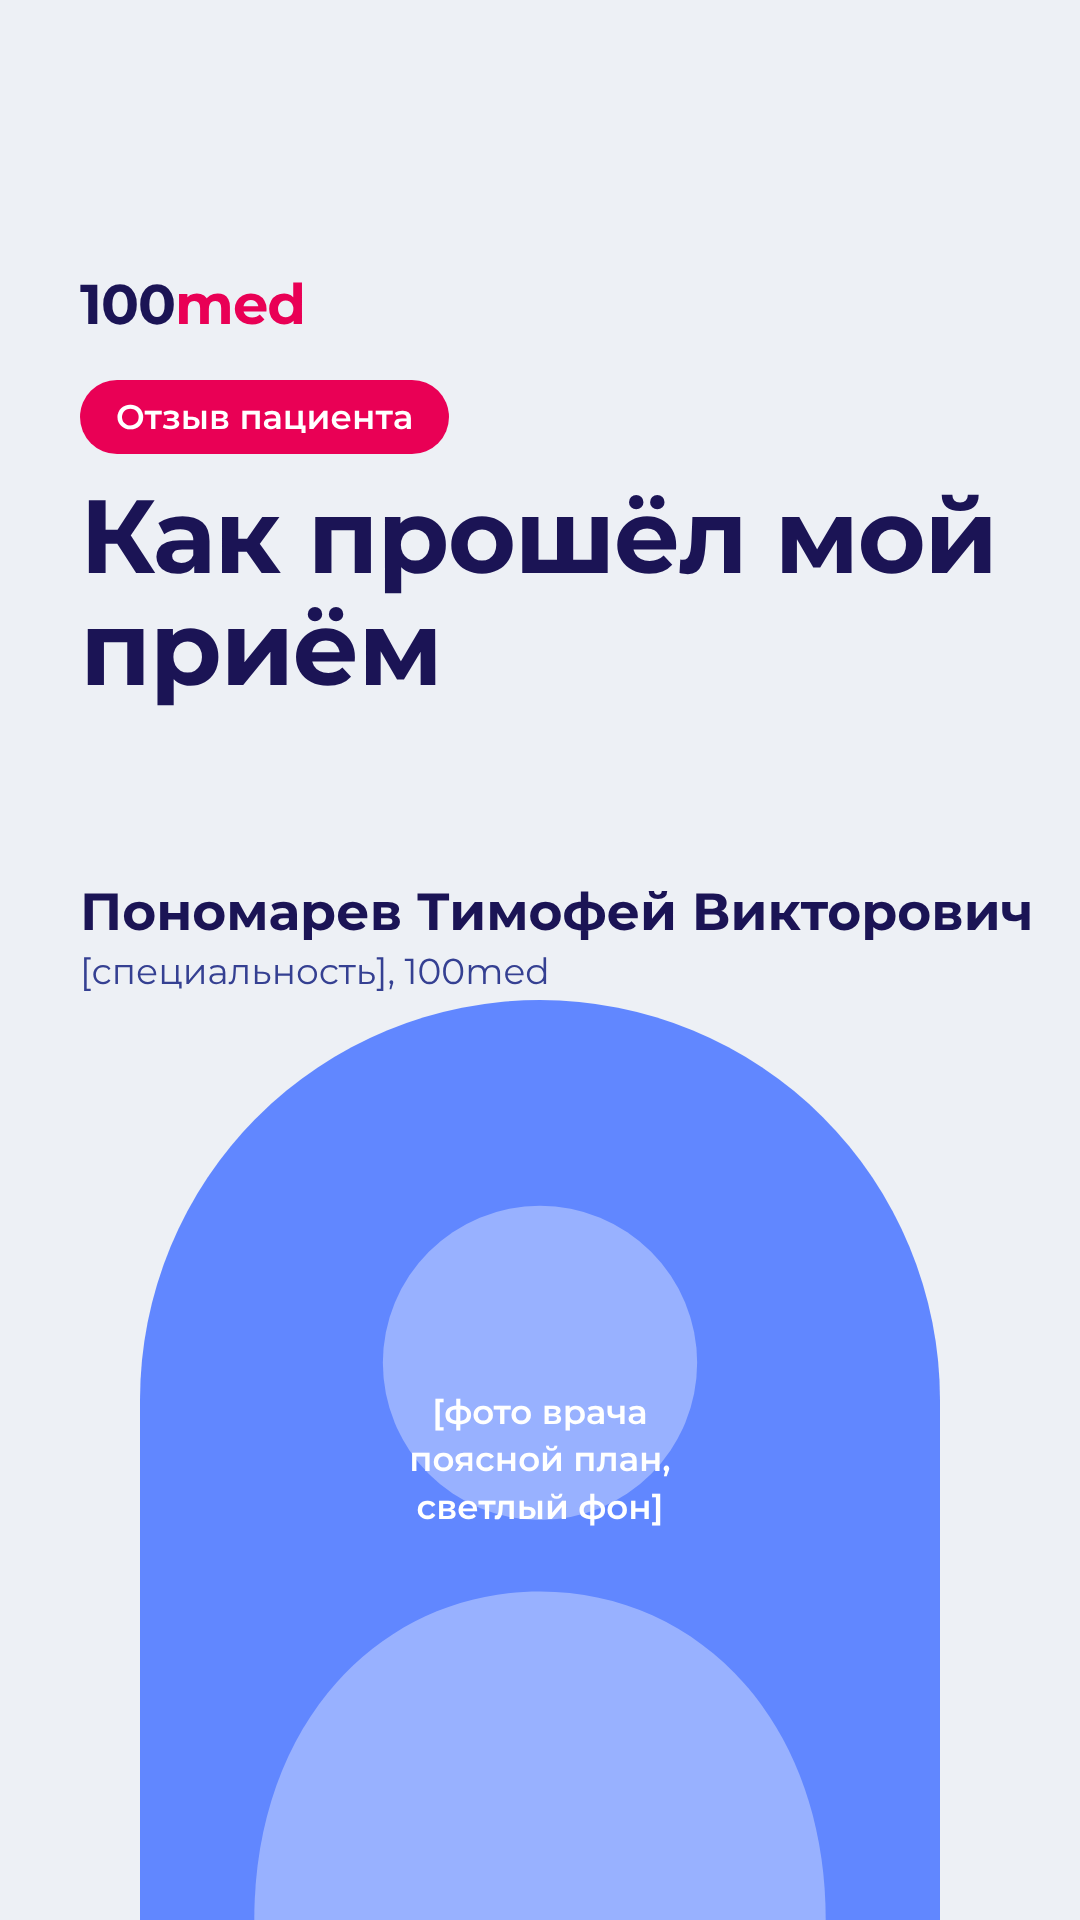
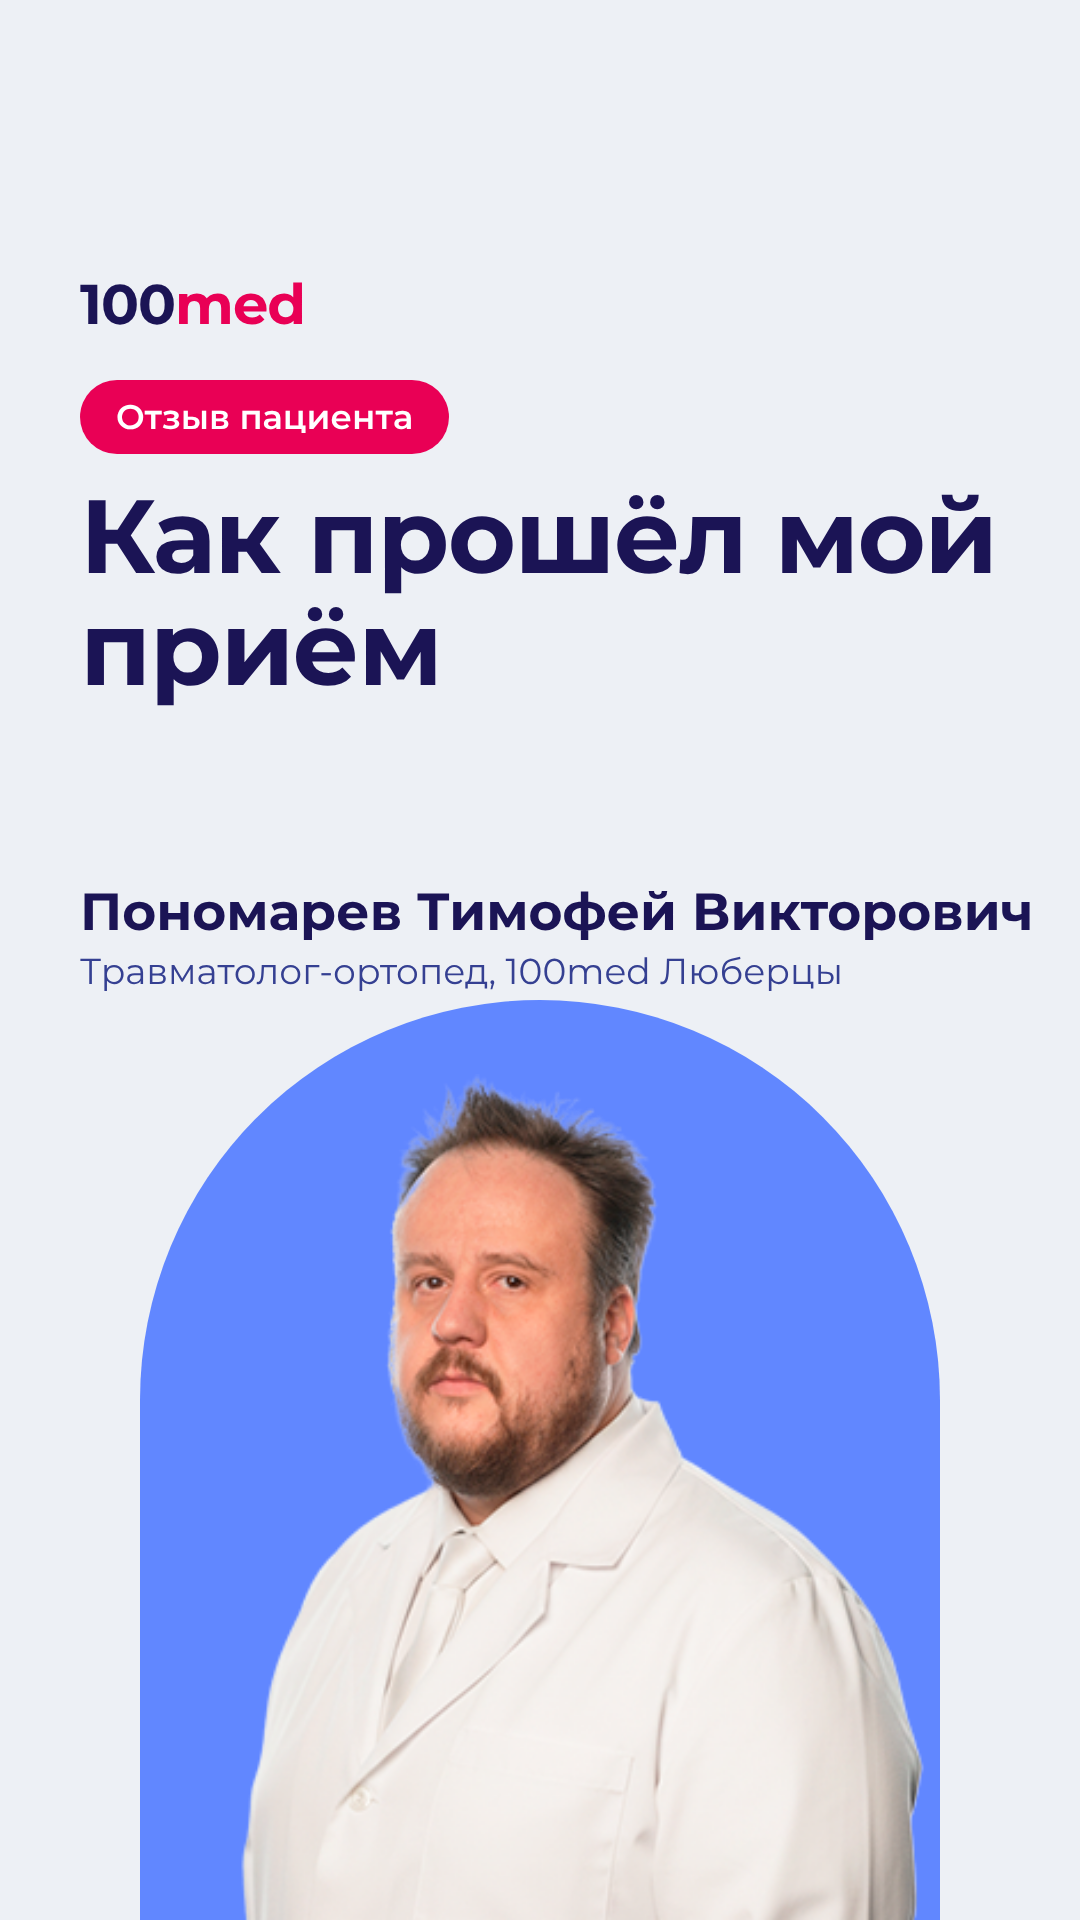
Обложки видеоотзыва: фото и специальность Пономарева Т. В. с 100med.ru
Claude-Session: https://claude.ai/code/session_01PviFTs3NBUHuRE8r3MhosN

Changed region(s): [[0.2139, 0.5625, 0.8556, 1.0], [0.0611, 0.5, 0.5806, 0.5312], [0.6417, 0.5, 0.7639, 0.5312]]

diff --git a/design/rutube/covers.html b/design/rutube/covers.html
@@ -11,7 +11,7 @@ body{font-family:'Proxima Nova','Montserrat',sans-serif;background:#fff}
 .photo{position:absolute;right:0;bottom:0;width:520px;height:640px;border-radius:260px 260px 0 0;
  display:flex;align-items:center;justify-content:center;text-align:center;font-weight:600;font-size:24px;line-height:1.4}
 .photo svg{position:absolute;bottom:0;left:50%;transform:translateX(-50%);opacity:.35}
-.photo span{position:relative;z-index:1}
+.photo img{position:absolute;bottom:0;left:50%;transform:translateX(-50%);height:92%}
 h1{font-weight:700;line-height:1.08;letter-spacing:-1.5px}
 .name{position:absolute;left:64px;bottom:64px}
 .name .fio{font-weight:700;font-size:34px;white-space:nowrap}
@@ -20,7 +20,7 @@ h1{font-weight:700;line-height:1.08;letter-spacing:-1.5px}
 /* V1 Indy */
 .v1{background:var(--indy);color:#fff}
 .v1 .logo{color:#fff}
-.v1 .photo{background:var(--g2);color:var(--blue);right:40px}
+.v1 .photo{background:var(--blue);color:var(--blue);right:40px}
 .v1 h1{position:absolute;left:64px;top:230px;width:640px;font-size:84px}
 .v1 .pill{position:absolute;left:64px;top:150px;background:#fff;color:var(--blue)}
 /* V2 light */
@@ -60,16 +60,16 @@ h1{font-weight:700;line-height:1.08;letter-spacing:-1.5px}
  <div class="logo">100<b>med</b></div>
  <div class="pill">Видеоотзыв пациента</div>
  <h1>Почему я выбрала этого врача</h1>
- <div class="name"><div class="fio">Пономарев Тимофей Викторович</div><div class="spec">[специальность], 100med</div></div>
- <div class="photo"><svg width="420" height="560" viewBox="0 0 420 560"><circle cx="210" cy="170" r="110" fill="#354092"/><path d="M10 560c0-140 90-230 200-230s200 90 200 230z" fill="#354092"/></svg><span>[фото врача<br>поясной план,<br>светлый фон]</span></div>
+ <div class="name"><div class="fio">Пономарев Тимофей Викторович</div><div class="spec">Травматолог-ортопед, 100med Люберцы</div></div>
+ <div class="photo"><img src="ponomarev.png" alt="Пономарев Тимофей Викторович"></div>
 </div>
 
 <div class="cover v2" id="v2">
  <div class="logo">100<b>med</b></div>
  <div class="pill">Отзыв пациента</div>
  <h1>Как прошёл мой приём</h1>
- <div class="name"><div class="fio">Пономарев Тимофей Викторович</div><div class="spec">[специальность], 100med</div></div>
- <div class="photo"><svg width="420" height="560" viewBox="0 0 420 560"><circle cx="210" cy="170" r="110" fill="#fff"/><path d="M10 560c0-140 90-230 200-230s200 90 200 230z" fill="#fff"/></svg><span>[фото врача<br>поясной план,<br>светлый фон]</span></div>
+ <div class="name"><div class="fio">Пономарев Тимофей Викторович</div><div class="spec">Травматолог-ортопед, 100med Люберцы</div></div>
+ <div class="photo"><img src="ponomarev.png" alt="Пономарев Тимофей Викторович"></div>
 </div>
 
 <div class="cover v3" id="v3">
@@ -78,8 +78,8 @@ h1{font-weight:700;line-height:1.08;letter-spacing:-1.5px}
  <h1>Честно о приёме у врача</h1>
  <div class="play"><svg width="30" height="34" viewBox="0 0 30 34"><path d="M2 2l26 15L2 32z" fill="#fff"/></svg></div>
  <div class="playtxt">Видеоотзыв пациента</div>
- <div class="name"><div class="fio">Пономарев Тимофей Викторович</div><div class="spec" style="color:#d8dfe8">[специальность], 100med</div></div>
- <div class="photo"><svg width="420" height="560" viewBox="0 0 420 560"><circle cx="210" cy="170" r="110" fill="#fff"/><path d="M10 560c0-140 90-230 200-230s200 90 200 230z" fill="#fff"/></svg><span>[фото врача<br>поясной план,<br>светлый фон]</span></div>
+ <div class="name"><div class="fio">Пономарев Тимофей Викторович</div><div class="spec" style="color:#d8dfe8">Травматолог-ортопед, 100med Люберцы</div></div>
+ <div class="photo"><img src="ponomarev.png" alt="Пономарев Тимофей Викторович"></div>
 </div>
 
 
@@ -87,16 +87,16 @@ h1{font-weight:700;line-height:1.08;letter-spacing:-1.5px}
  <div class="logo">100<b>med</b></div>
  <div class="pill">Видеоотзыв пациента</div>
  <h1>Почему я выбрала этого врача</h1>
- <div class="name"><div class="fio">Пономарев Тимофей Викторович</div><div class="spec">[специальность], 100med</div></div>
- <div class="photo"><svg width="420" height="560" viewBox="0 0 420 560"><circle cx="210" cy="170" r="110" fill="#354092"/><path d="M10 560c0-140 90-230 200-230s200 90 200 230z" fill="#354092"/></svg><span>[фото врача<br>поясной план,<br>светлый фон]</span></div>
+ <div class="name"><div class="fio">Пономарев Тимофей Викторович</div><div class="spec">Травматолог-ортопед, 100med Люберцы</div></div>
+ <div class="photo"><img src="ponomarev.png" alt="Пономарев Тимофей Викторович"></div>
 </div>
 
 <div class="cover vert v2" id="s2">
  <div class="logo">100<b>med</b></div>
  <div class="pill">Отзыв пациента</div>
  <h1>Как прошёл мой приём</h1>
- <div class="name"><div class="fio">Пономарев Тимофей Викторович</div><div class="spec">[специальность], 100med</div></div>
- <div class="photo"><svg width="420" height="560" viewBox="0 0 420 560"><circle cx="210" cy="170" r="110" fill="#fff"/><path d="M10 560c0-140 90-230 200-230s200 90 200 230z" fill="#fff"/></svg><span>[фото врача<br>поясной план,<br>светлый фон]</span></div>
+ <div class="name"><div class="fio">Пономарев Тимофей Викторович</div><div class="spec">Травматолог-ортопед, 100med Люберцы</div></div>
+ <div class="photo"><img src="ponomarev.png" alt="Пономарев Тимофей Викторович"></div>
 </div>
 
 <div class="cover vert v3" id="s3">
@@ -105,7 +105,7 @@ h1{font-weight:700;line-height:1.08;letter-spacing:-1.5px}
  <h1>Честно о приёме у врача</h1>
  <div class="play"><svg width="30" height="34" viewBox="0 0 30 34"><path d="M2 2l26 15L2 32z" fill="#fff"/></svg></div>
  <div class="playtxt">Видеоотзыв пациента</div>
- <div class="name"><div class="fio">Пономарев Тимофей Викторович</div><div class="spec" style="color:#d8dfe8">[специальность], 100med</div></div>
- <div class="photo"><svg width="420" height="560" viewBox="0 0 420 560"><circle cx="210" cy="170" r="110" fill="#fff"/><path d="M10 560c0-140 90-230 200-230s200 90 200 230z" fill="#fff"/></svg><span>[фото врача<br>поясной план,<br>светлый фон]</span></div>
+ <div class="name"><div class="fio">Пономарев Тимофей Викторович</div><div class="spec" style="color:#d8dfe8">Травматолог-ортопед, 100med Люберцы</div></div>
+ <div class="photo"><img src="ponomarev.png" alt="Пономарев Тимофей Викторович"></div>
 </div>
 </body></html>
